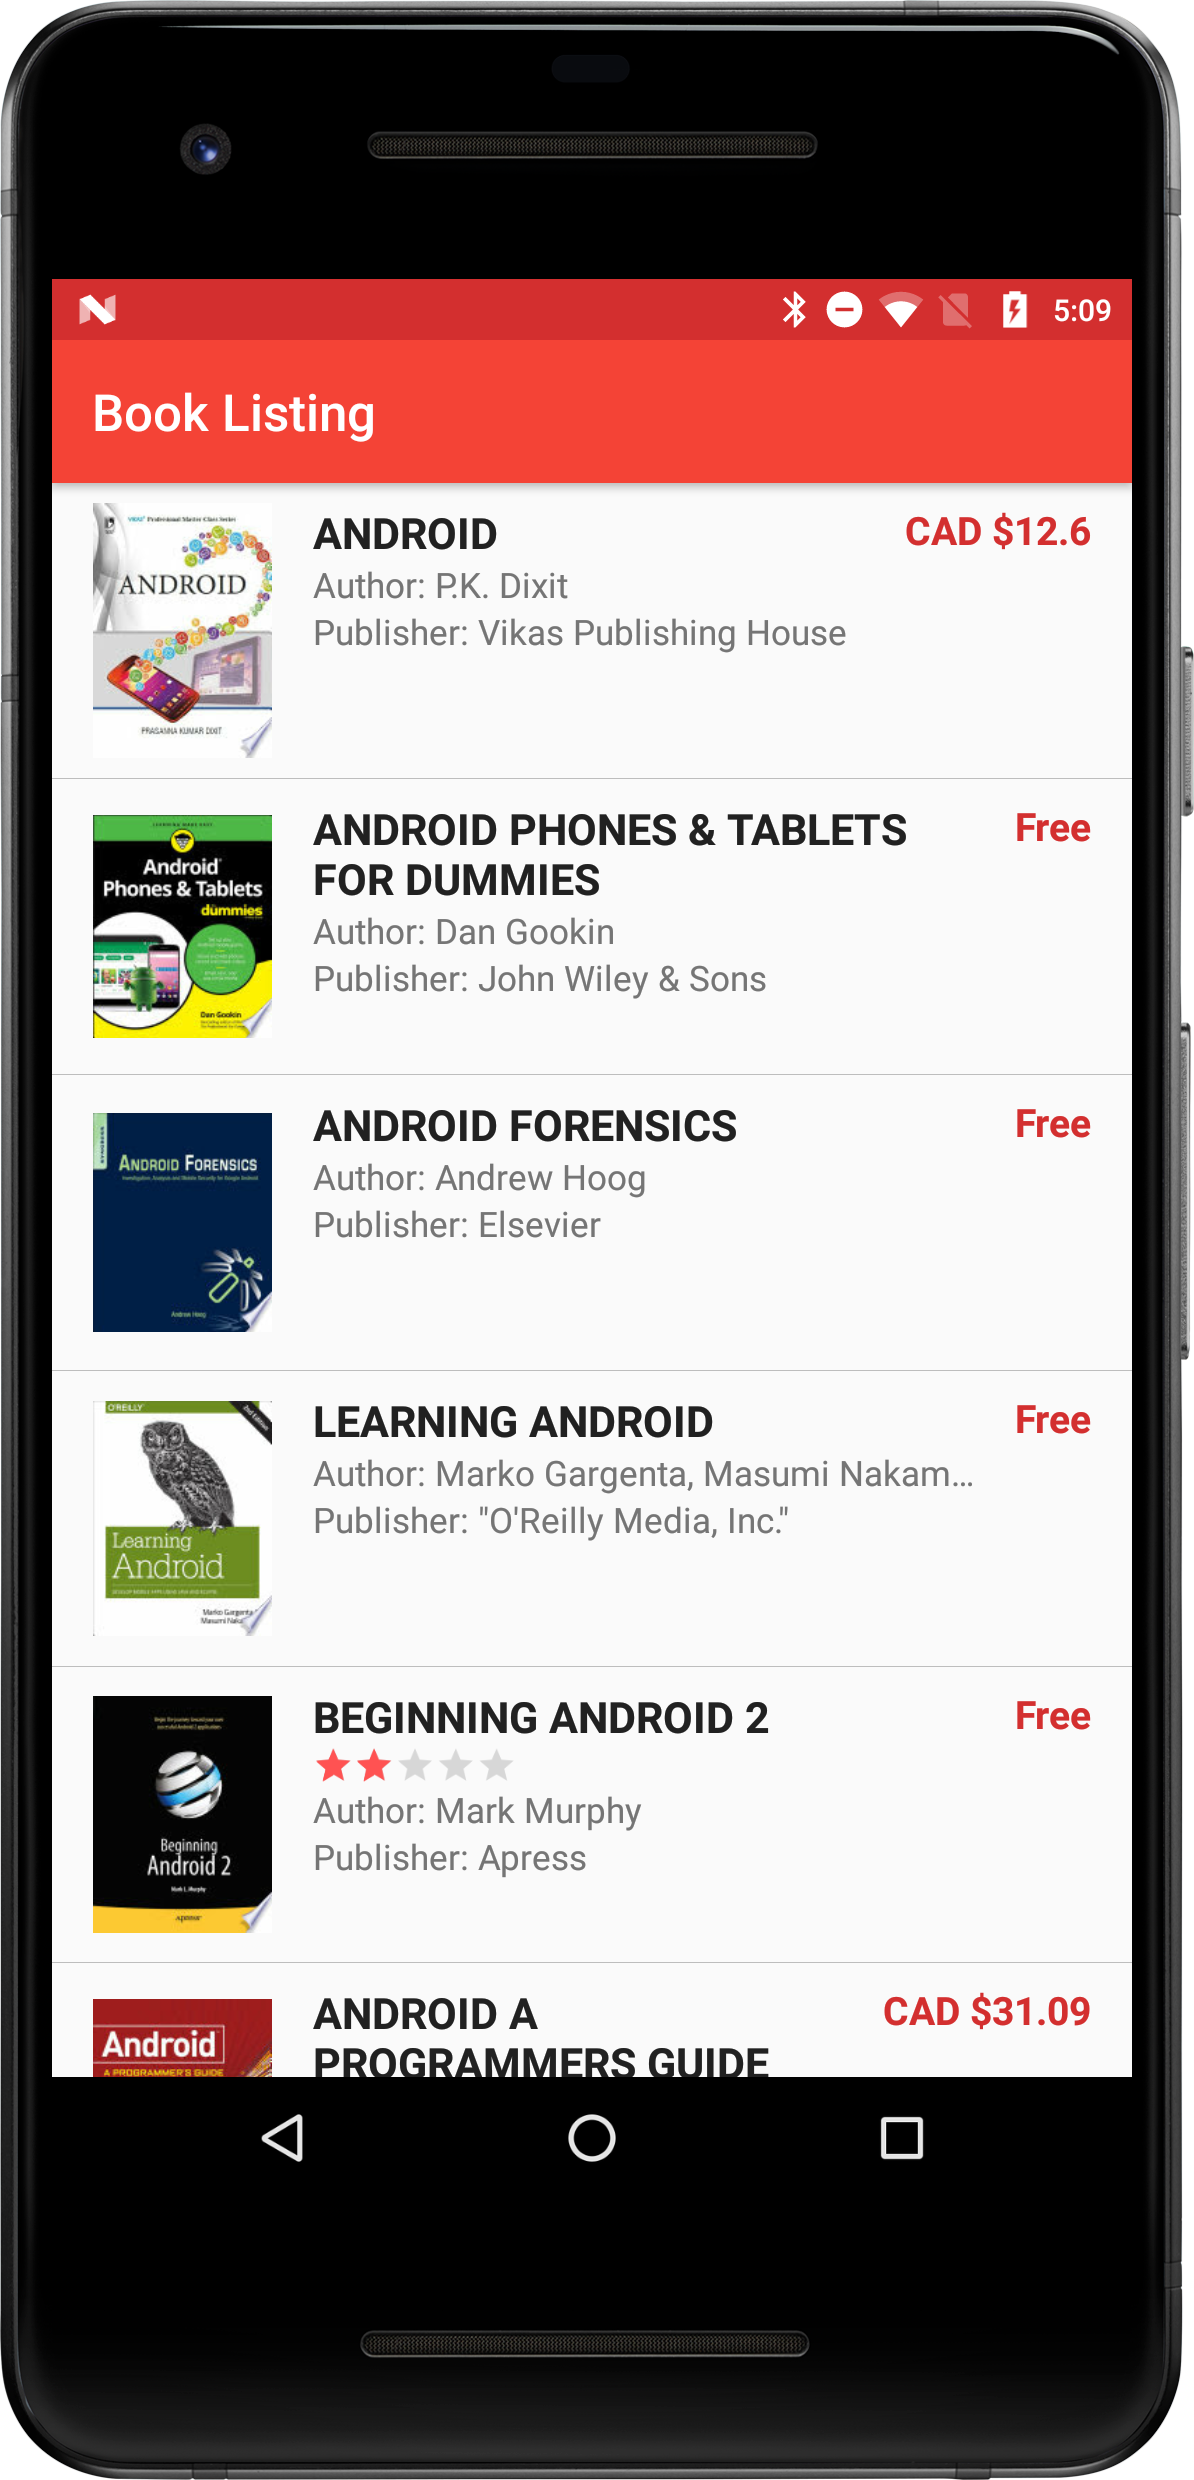
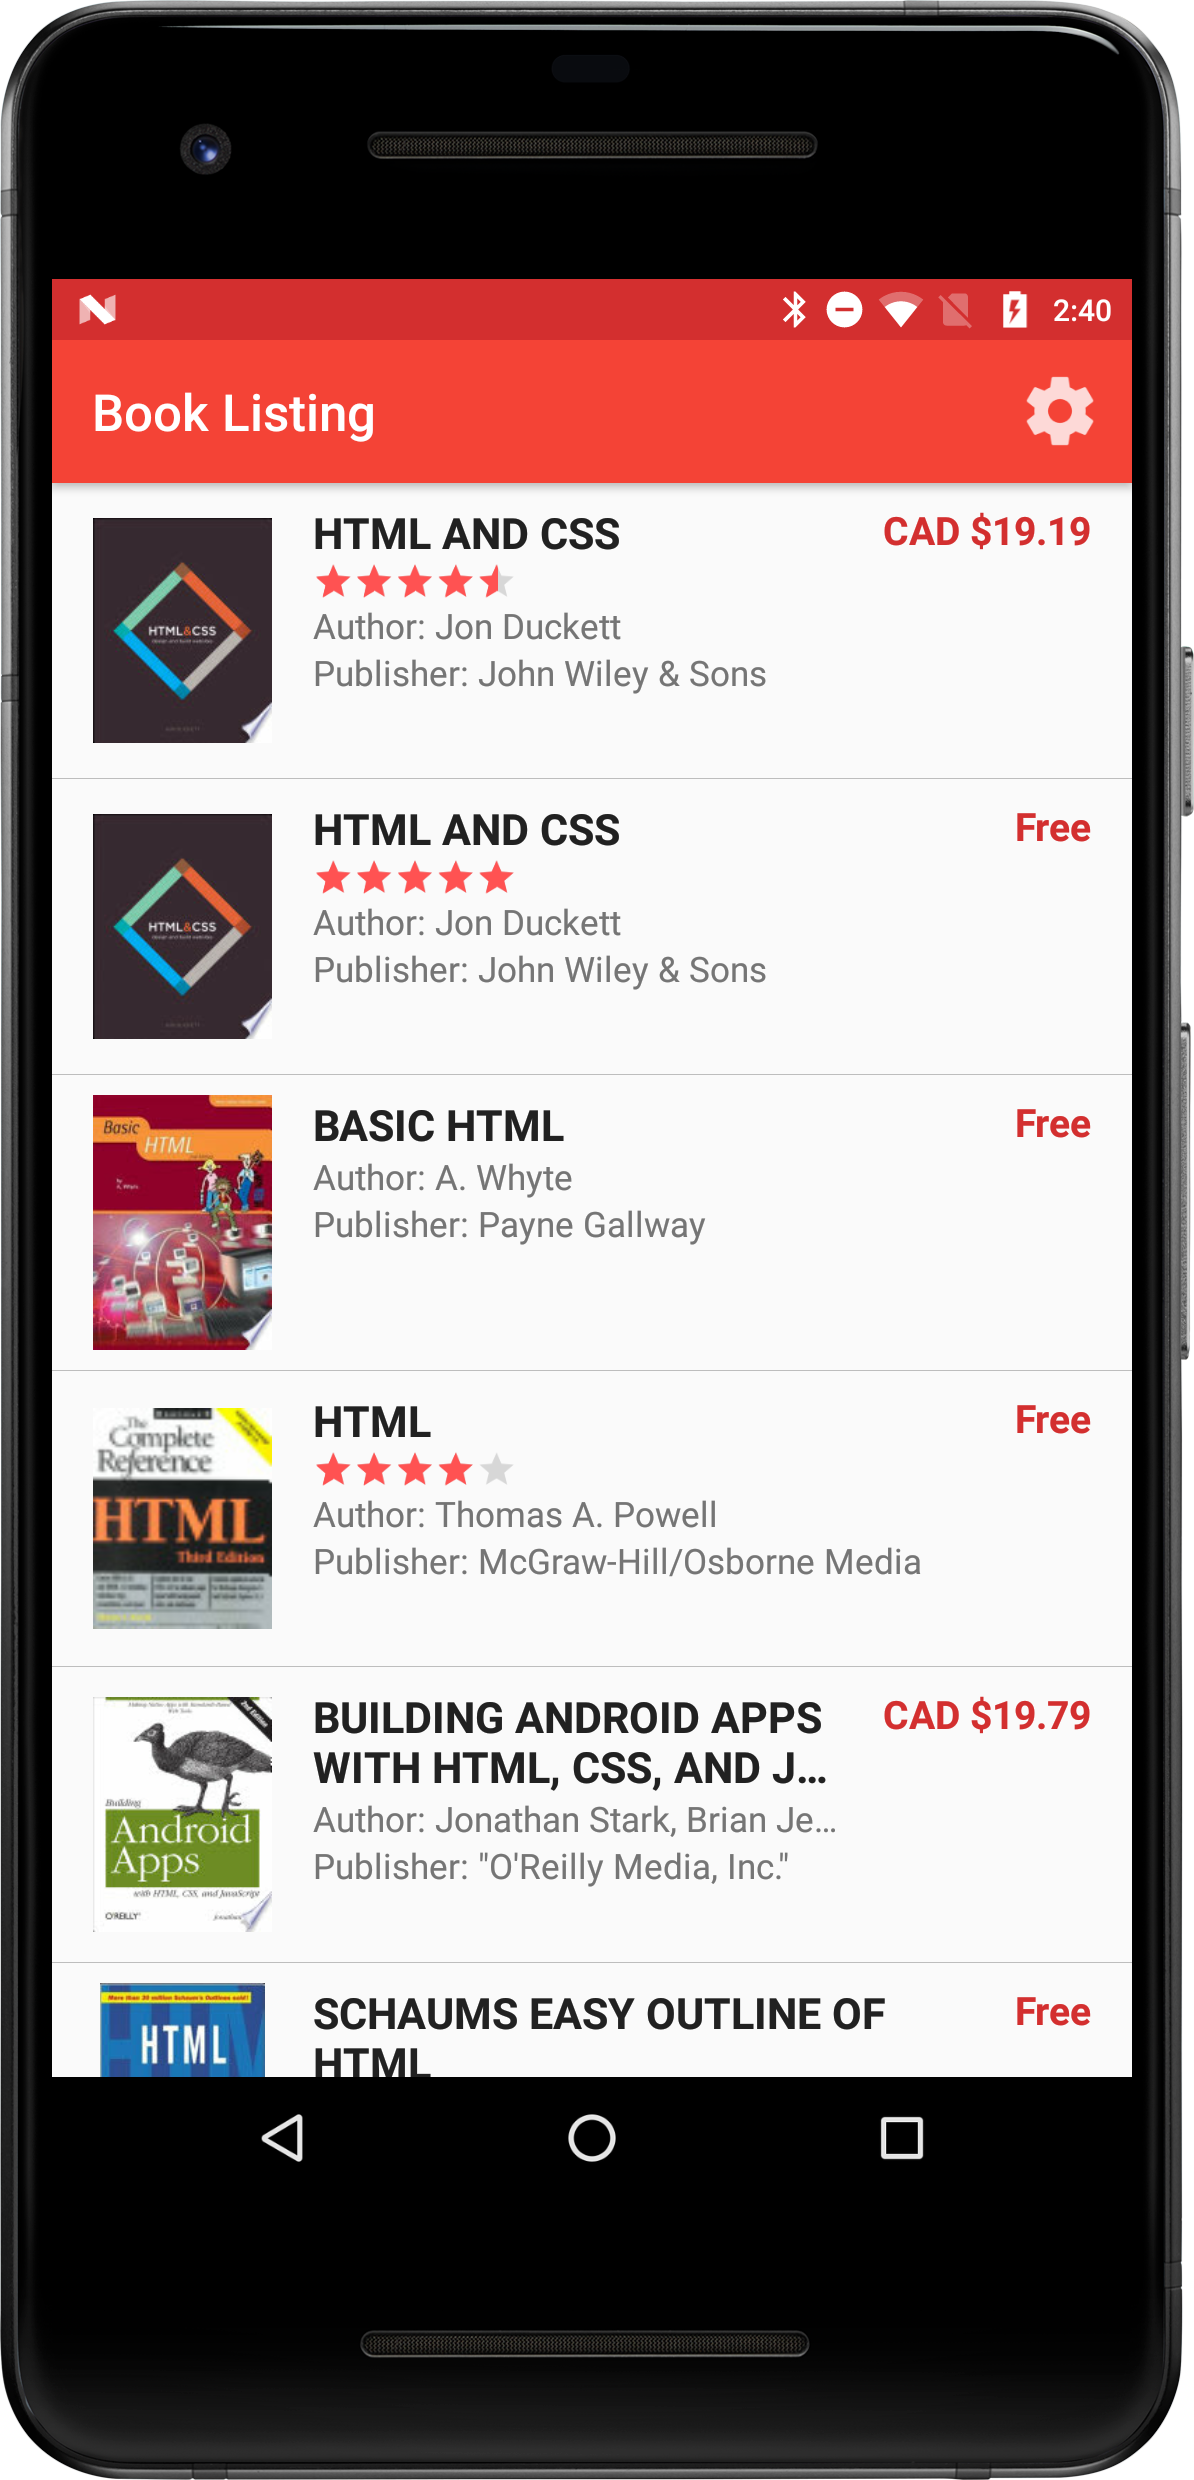
search feature added

Changed region(s): [[0.062, 0.1863, 0.8987, 0.8383], [0.7437, 0.1552, 0.9296, 0.2173], [0.7437, 0.6831, 0.9296, 0.7141]]

diff --git a/app/src/main/java/com/example/chirag/booklisting/MainActivity.java b/app/src/main/java/com/example/chirag/booklisting/MainActivity.java
@@ -7,18 +7,24 @@ import android.content.Context;
 import android.content.Intent;
 import android.content.Loader;
 
+import android.content.SharedPreferences;
 import android.net.ConnectivityManager;
 import android.net.NetworkInfo;
 import android.net.Uri;
 
+import android.preference.PreferenceManager;
 import android.support.v7.app.AppCompatActivity;
 
 import android.os.Bundle;
 
+import android.util.Log;
+import android.view.Menu;
+import android.view.MenuItem;
 import android.view.View;
 
 import android.widget.AdapterView;
 import android.widget.ListView;
+import android.widget.TextView;
 
 import java.util.ArrayList;
 import java.util.List;
@@ -29,7 +35,11 @@ public class MainActivity extends AppCompatActivity implements LoaderCallbacks<L
 
     private static final int BOOK_LOADER_ID = 1;
 
-    private static final String BOOK_URL = "https://www.googleapis.com/books/v1/volumes?q=android&maxResults=20";
+    private View mProgressBar;
+
+    private TextView mEmptyTextView;
+
+    private static final String BOOK_URL = "https://www.googleapis.com/books/v1/volumes?";
 
     @Override
     protected void onCreate(Bundle savedInstanceState) {
@@ -38,7 +48,13 @@ public class MainActivity extends AppCompatActivity implements LoaderCallbacks<L
 
         ListView bookListView = findViewById(R.id.listView);
 
+        mProgressBar = findViewById(R.id.loading_spinner);
+        mEmptyTextView = findViewById(R.id.emptyView);
+
+        bookListView.setEmptyView(mEmptyTextView);
+
         mAdapter = new DataAdapter(this, new ArrayList<BookInfo>());
+
         bookListView.setAdapter(mAdapter);
 
         bookListView.setOnItemClickListener(new AdapterView.OnItemClickListener() {
@@ -63,18 +79,33 @@ public class MainActivity extends AppCompatActivity implements LoaderCallbacks<L
 
         if (isConnected) {
             LoaderManager loadManager = getLoaderManager();
-            loadManager.initLoader(BOOK_LOADER_ID,null,this);
+            loadManager.initLoader(BOOK_LOADER_ID, null, this);
+        } else {
+            mProgressBar.setVisibility(View.GONE);
+            mEmptyTextView.setText(R.string.no_internet);
         }
     }
 
-
     @Override
     public Loader<List<BookInfo>> onCreateLoader(int i, Bundle args) {
-        return new BookLoader(this, BOOK_URL);
+
+        SharedPreferences sharedPreferences = PreferenceManager.getDefaultSharedPreferences(this);
+        String value = sharedPreferences.getString(
+                getString(R.string.settings_min_key),
+                getString(R.string.settings_min_default));
+        Uri baseUri = Uri.parse(BOOK_URL);
+        Uri.Builder uriBuilder = baseUri.buildUpon();
+
+        uriBuilder.appendQueryParameter("q", value);
+        uriBuilder.appendQueryParameter("maxResults", "20");
+        Log.i(MainActivity.this.getClass().getName(), uriBuilder.toString());
+        return new BookLoader(this, uriBuilder.toString());
     }
 
     @Override
     public void onLoadFinished(Loader<List<BookInfo>> loader, List<BookInfo> data) {
+        mProgressBar.setVisibility(View.GONE);
+        mEmptyTextView.setText(R.string.no_books);
         mAdapter.clear();
         if (data != null && !data.isEmpty()) {
             mAdapter.addAll(data);
@@ -85,4 +116,23 @@ public class MainActivity extends AppCompatActivity implements LoaderCallbacks<L
     public void onLoaderReset(Loader<List<BookInfo>> loader) {
         mAdapter.clear();
     }
+
+    @Override
+    public boolean onCreateOptionsMenu(Menu menu) {
+        getMenuInflater().inflate(R.menu.options_menu, menu);
+        return true;
+    }
+
+    @Override
+    public boolean onOptionsItemSelected(MenuItem item) {
+        int id =item.getItemId();
+        if (id == R.id.action_settings) {
+            Intent settingsIntent = new Intent(this, SettingsActivity.class);
+            startActivity(settingsIntent);
+            return true;
+        }
+        return super.onOptionsItemSelected(item);
+    }
+
+
 }

diff --git a/app/src/main/java/com/example/chirag/booklisting/SettingsActivity.java b/app/src/main/java/com/example/chirag/booklisting/SettingsActivity.java
@@ -1,0 +1,47 @@
+package com.example.chirag.booklisting;
+
+import android.content.SharedPreferences;
+import android.os.Bundle;
+import android.preference.Preference;
+import android.preference.PreferenceFragment;
+import android.preference.PreferenceManager;
+import android.support.annotation.Nullable;
+import android.support.v7.app.AppCompatActivity;
+import android.util.Log;
+
+public class SettingsActivity extends AppCompatActivity {
+    @Override
+    protected void onCreate(@Nullable Bundle savedInstanceState) {
+        super.onCreate(savedInstanceState);
+        setContentView(R.layout.settings_activity);
+    }
+
+    public static class BookPreferenceFragment extends PreferenceFragment implements Preference.OnPreferenceChangeListener {
+
+        @Override
+        public void onCreate(@Nullable Bundle savedInstanceState) {
+            super.onCreate(savedInstanceState);
+            addPreferencesFromResource(R.xml.searchable);
+
+            Preference value = findPreference(getString(R.string.settings_min_key));
+            Log.i(this.getClass().getName(), "Value: " + value);
+            bindPreferenceSummary(value);
+        }
+
+        @Override
+        public boolean onPreferenceChange(Preference preference, Object newValue) {
+            String stringValue = newValue.toString();
+            preference.setSummary(stringValue);
+            Log.i(this.getClass().getName(), "String Value: " + stringValue);
+            return true;
+        }
+
+        private void bindPreferenceSummary(Preference preference) {
+            preference.setOnPreferenceChangeListener(this);
+            SharedPreferences preferences = PreferenceManager.getDefaultSharedPreferences(preference.getContext());
+            String preferenceString = preferences.getString(preference.getKey(), "");
+            Log.i(this.getClass().getName(), "Preference String: " + preferenceString);
+            onPreferenceChange(preference, preferenceString);
+        }
+    }
+}

diff --git a/app/src/main/java/com/example/chirag/booklisting/ImageURL.java b/app/src/main/java/com/example/chirag/booklisting/ImageURL.java
@@ -19,6 +19,7 @@ public class ImageURL extends AsyncTask<String, Void, Bitmap> {
     @SuppressLint("StaticFieldLeak")
     private ImageView imageView;
     private Bitmap bitmap;
+    private InputStream inputStream;
 
     public ImageURL(ImageView imageView) {
         this.imageView = imageView;
@@ -29,13 +30,20 @@ public class ImageURL extends AsyncTask<String, Void, Bitmap> {
         String url = strings[0];
         try {
             URL bookUrl = new URL(url);
-            InputStream inputStream = bookUrl.openStream();
+            inputStream = bookUrl.openStream();
             bitmap = BitmapFactory.decodeStream(inputStream);
-            inputStream.close();
         } catch (MalformedURLException e) {
             e.printStackTrace();
         } catch (IOException e) {
             e.printStackTrace();
+        } finally {
+            if (inputStream != null) {
+                try {
+                    inputStream.close();
+                } catch (IOException e) {
+                    e.printStackTrace();
+                }
+            }
         }
         return bitmap;
     }

diff --git a/app/src/main/java/com/example/chirag/booklisting/BookQuery.java b/app/src/main/java/com/example/chirag/booklisting/BookQuery.java
@@ -133,7 +133,7 @@ public final class BookQuery {
                     String bookLink = bookInfo(elementsInItem, JSONParseKey.JSON_INFO_LINK_KEY);
                     String bookAuthors = bookInfo(elementsInItem, JSONParseKey.JSON_AUTHOR_KEY);
 
-                    String bookPrice = String.valueOf(bookData(elementsInItem, JSONParseKey.JSON_SALE_INFO_KEY,JSONParseKey.JSON_RETAIL_PRICE_KEY, JSONParseKey.JSON_AMOUNT_KEY));
+                    String bookPrice = String.valueOf(bookData(elementsInItem, JSONParseKey.JSON_SALE_INFO_KEY, JSONParseKey.JSON_RETAIL_PRICE_KEY, JSONParseKey.JSON_AMOUNT_KEY));
                     String url = bookData(elementsInItem, JSONParseKey.JSON_VOLUME_INFO_KEY, JSONParseKey.JSON_IMAGE_LINK_KEY, JSONParseKey.JSON_SMALL_THUMBNAIL_KEY);
 
                     double rating;

diff --git a/README.md b/README.md
@@ -12,7 +12,10 @@ The goal is to design and create the structure of a Book Listing app which would
 - Using an AsyncTask
 - Loader Manager
 - Bitmap
+- Shared Preference
+- Preference Fragment
 
 #### UX DESIGN
 
-<img src="https://raw.githubusercontent.com/cvbutani/BookListing/master/UXDesign/ux1.png" width="200"/> <img src="https://raw.githubusercontent.com/cvbutani/TourGuide/BookListing/UXDesign/ux2.png" width="200"/> 
+<img src="https://raw.githubusercontent.com/cvbutani/BookListing/master/UXDesign/ux1.png" width="200"/> <img src="https://raw.githubusercontent.com/cvbutani/BookListing/master/UXDesign/ux2.png" width="200"/> 
+<img src="https://raw.githubusercontent.com/cvbutani/BookListing/master/UXDesign/ux3.png" width="200"/> <img src="https://raw.githubusercontent.com/cvbutani/BookListing/master/UXDesign/ux4.png" width="200"/> 
